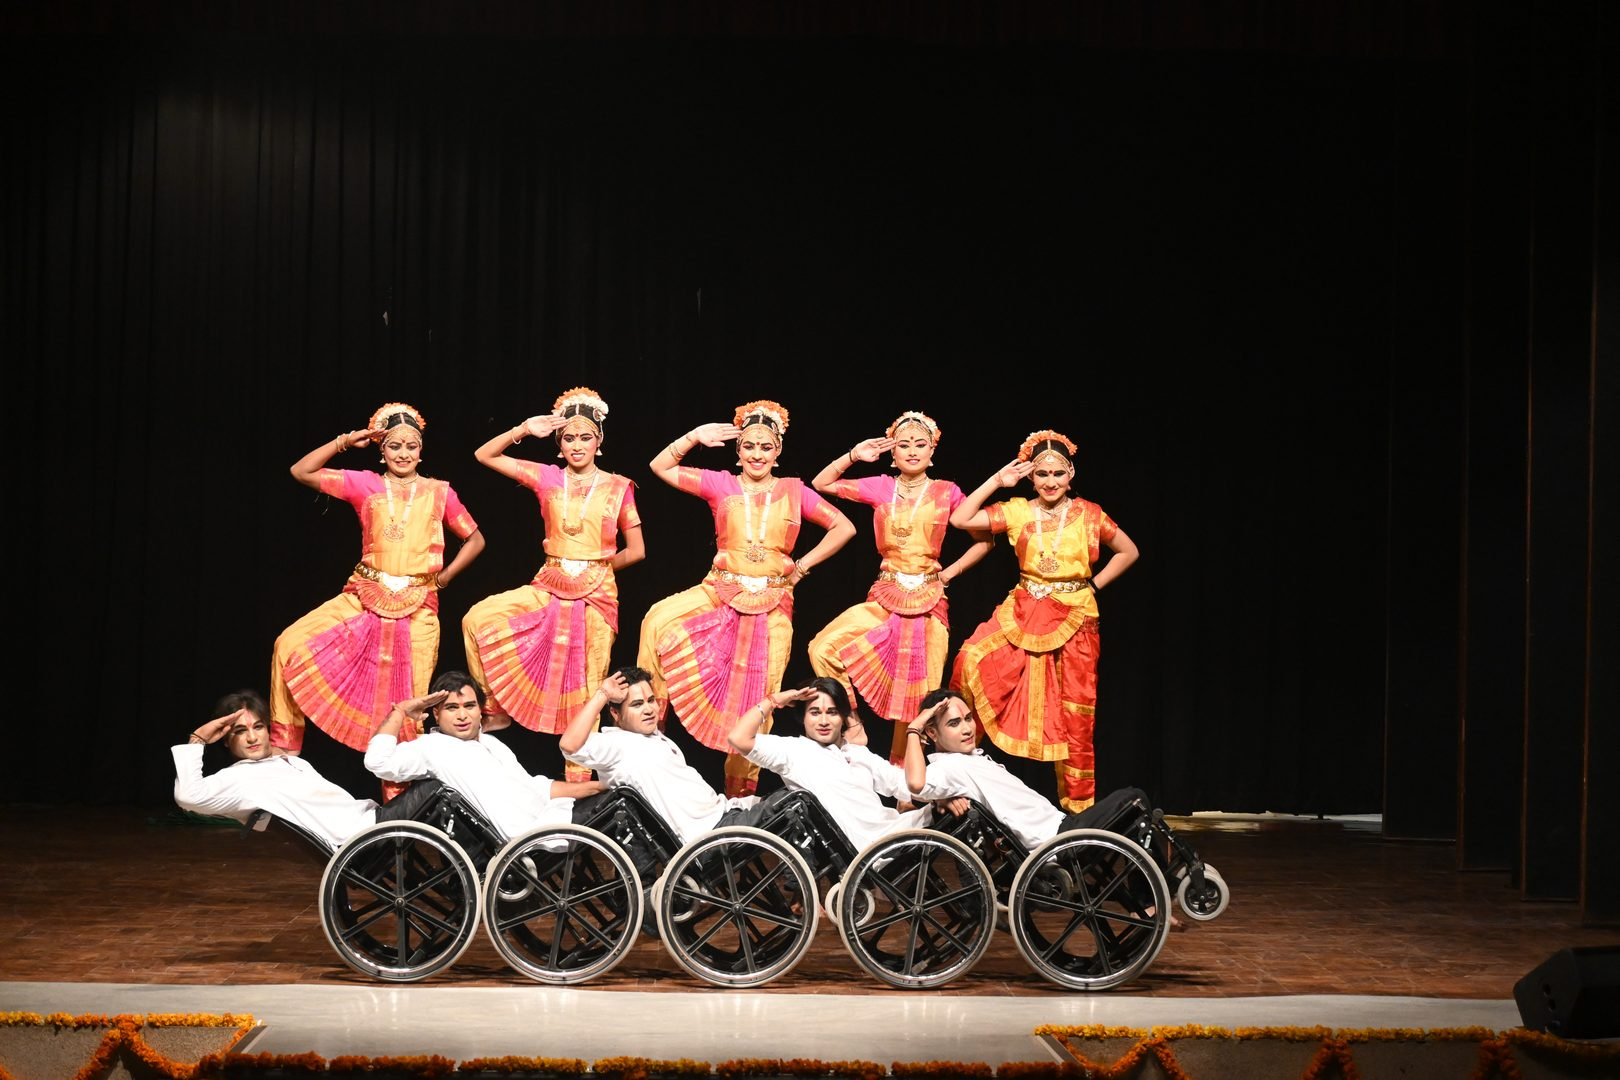
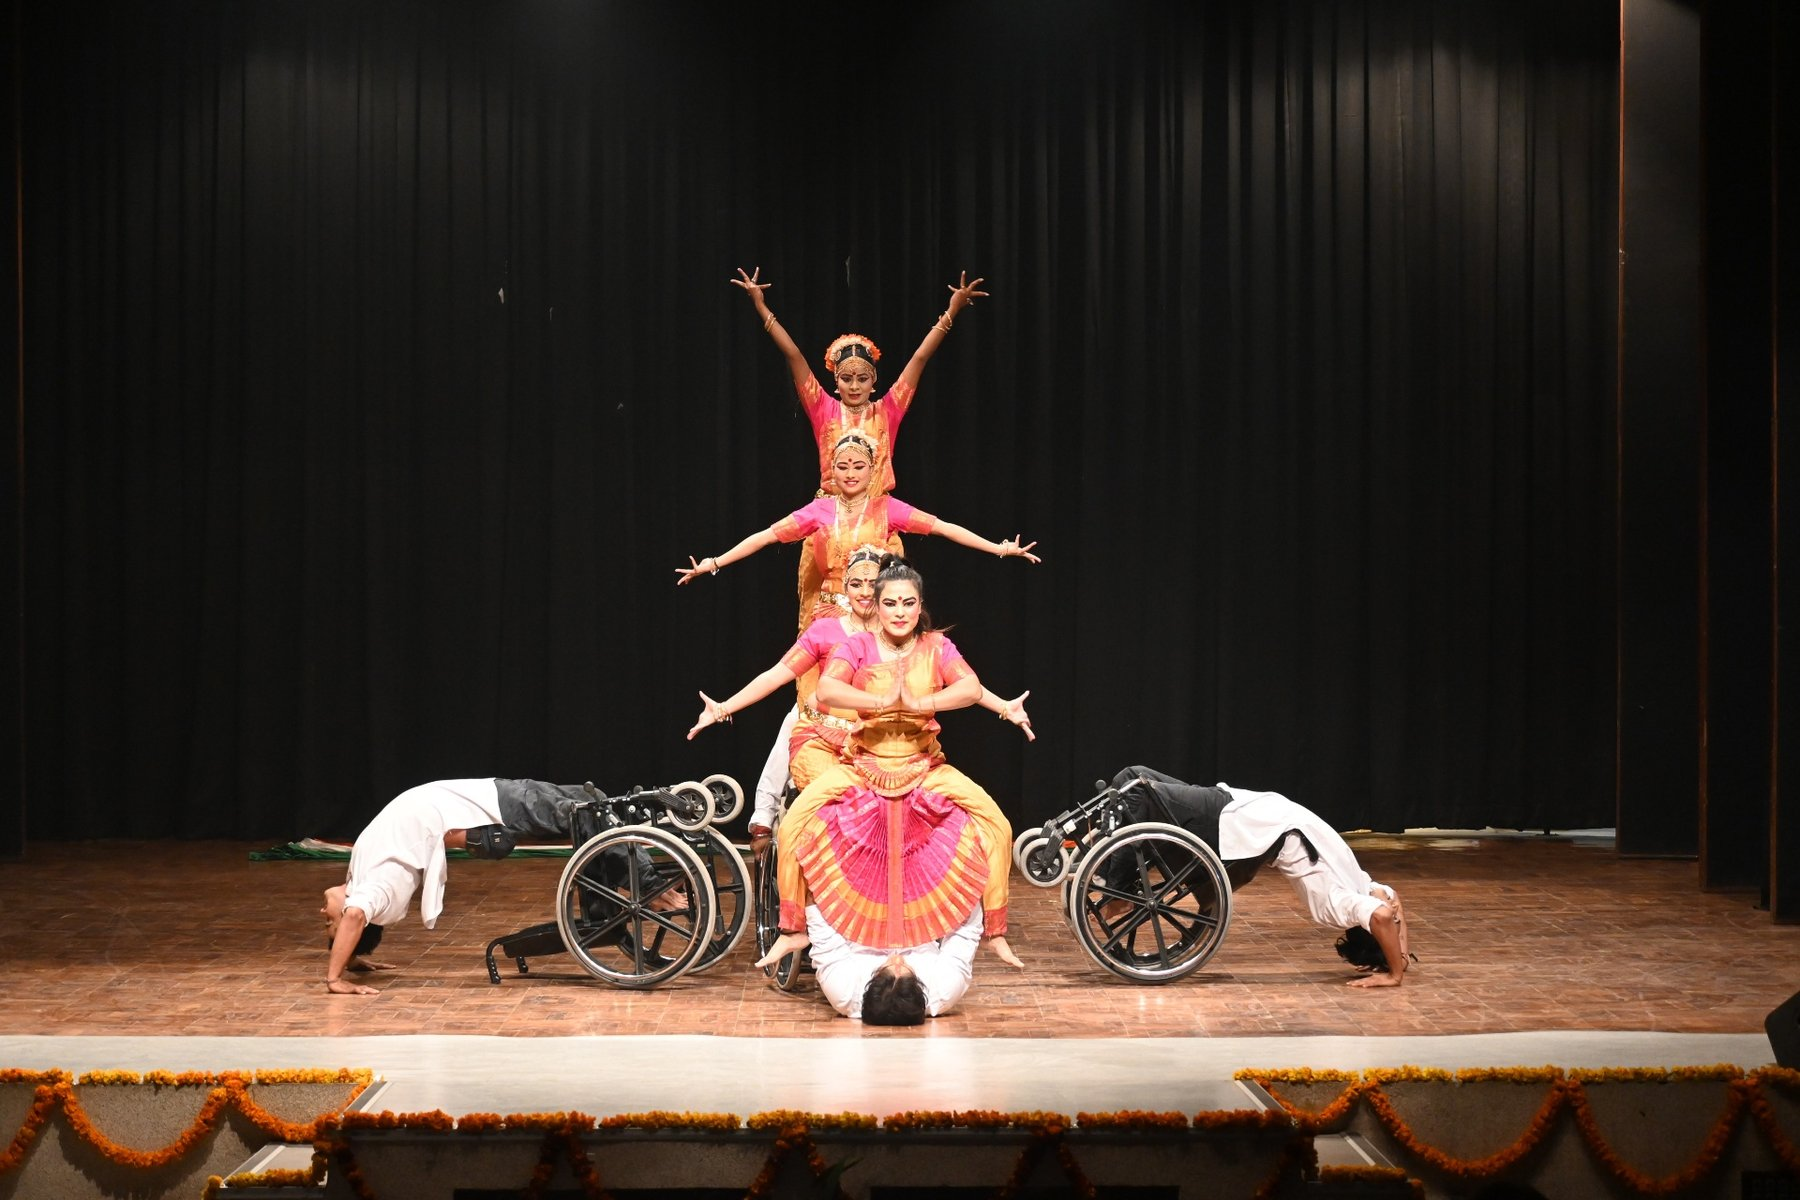
Add best NISHAAN 2024/2025 photos from OAE gallery.
Pull stage performances from oae.iitd.ac.in galleries — inclusive dance
(We Are One), music, recognition, and opening moments — into About the
Fest, hero, showcase, and past editions. Drop the tea-break image.

diff --git a/content/gallery.ts b/content/gallery.ts
@@ -1,38 +1,39 @@
-/** Past editions — NISHAAN was not held in 2023; first edition was 2024 */
+/** Past editions — NISHAAN was not held in 2023; first edition was 2024.
+ *  Photos sourced from OAE gallery (oae.iitd.ac.in NISHAAN 2024 / 2025). */
 export const pastGallery = [
   {
     id: "2025-1",
     year: 2025,
     src: "/media/past/2025-01.jpg",
-    alt: "Performers on stage during NISHAAN at IIT Delhi",
+    alt: "Inclusive stage dance at NISHAAN 2025 — performers together in salute",
     caption: "On Stage",
   },
   {
     id: "2025-2",
     year: 2025,
     src: "/media/past/2025-02.jpg",
-    alt: "Students celebrating during NISHAAN at IIT Delhi",
-    caption: "In the Hall",
+    alt: "Dance formation at NISHAAN 2025 with wheelchair artists",
+    caption: "We Are One",
   },
   {
     id: "2024-1",
     year: 2024,
     src: "/media/past/2024-01.jpg",
-    alt: "Cultural performance at NISHAAN 2024",
-    caption: "Cultural Showcase",
+    alt: "Student speaking at NISHAAN 2024 with OAE poster behind",
+    caption: "Opening Words",
   },
   {
     id: "2024-2",
     year: 2024,
     src: "/media/past/2024-02.jpg",
-    alt: "Participants gathered at NISHAAN 2024",
-    caption: "Participants",
+    alt: "Certificate moment at NISHAAN 2024",
+    caption: "Recognition",
   },
   {
     id: "2024-3",
     year: 2024,
     src: "/media/past/2024-03.jpg",
-    alt: "Welcome session at the first NISHAAN edition in 2024",
+    alt: "Host with microphone at the first NISHAAN edition in 2024",
     caption: "Welcome",
   },
 ] as const;
@@ -42,60 +43,67 @@ export const showcaseGallery = [
   {
     id: "show-01",
     src: "/media/showcase/show-01.jpg",
-    alt: "Inclusive performance moment at NISHAAN",
+    alt: "Inclusive dance ensemble at NISHAAN 2025",
     caption: "Shared Stage",
     span: "wide" as const,
   },
   {
     id: "show-02",
     src: "/media/showcase/show-02.jpg",
-    alt: "Audience and performers at NISHAAN",
-    caption: "In the Room",
+    alt: "Classical dance formation with wheelchair performers at NISHAAN",
+    caption: "We Are One",
     span: "normal" as const,
   },
   {
     id: "show-03",
     src: "/media/showcase/show-03.jpg",
-    alt: "Cultural dance presentation at NISHAAN",
-    caption: "Dance",
+    alt: "Music performance with harmonium at NISHAAN",
+    caption: "Music",
     span: "normal" as const,
   },
   {
     id: "show-04",
     src: "/media/showcase/show-04.jpg",
-    alt: "Celebration and recognition at NISHAAN",
-    caption: "Recognition",
+    alt: "Solo dance performance at NISHAAN",
+    caption: "Dance",
     span: "normal" as const,
   },
   {
     id: "show-05",
     src: "/media/showcase/show-05.jpg",
-    alt: "Stage ensemble at NISHAAN",
-    caption: "Ensemble",
+    alt: "Stage moment with sign language interpretation at NISHAAN",
+    caption: "Access on Stage",
     span: "wide" as const,
   },
   {
     id: "show-06",
     src: "/media/showcase/show-06.jpg",
-    alt: "Participants gathering before performances",
-    caption: "Gathering",
+    alt: "Guitar performance at NISHAAN",
+    caption: "In the Spotlight",
     span: "normal" as const,
   },
   {
     id: "show-07",
     src: "/media/showcase/show-07.jpg",
-    alt: "Performance energy at NISHAAN",
-    caption: "Energy",
+    alt: "Certificate presentation at NISHAAN",
+    caption: "Recognition",
+    span: "normal" as const,
+  },
+  {
+    id: "show-08",
+    src: "/media/showcase/show-08.jpg",
+    alt: "Student addressing the room at NISHAAN 2024",
+    caption: "Voice",
     span: "normal" as const,
   },
 ] as const;
 
 /** Event category cover images for richer cards */
 export const eventCovers: Record<string, string> = {
-  music: "/media/showcase/show-07.jpg",
-  dance: "/media/hero/stage.jpg",
-  drama: "/media/showcase/show-01.jpg",
-  painting: "/media/showcase/show-04.jpg",
-  photography: "/media/showcase/show-02.jpg",
+  music: "/media/showcase/show-03.jpg",
+  dance: "/media/showcase/show-04.jpg",
+  drama: "/media/showcase/show-05.jpg",
+  painting: "/media/showcase/show-07.jpg",
+  photography: "/media/showcase/show-08.jpg",
   wordsmith: "/media/showcase/show-06.jpg",
 };

diff --git a/components/home/HomeSections.tsx b/components/home/HomeSections.tsx
@@ -51,14 +51,25 @@ export function HomeSections() {
             </div>
           </div>
           <div className="lg:col-span-5">
-            <div className="imprint-tile flex h-full min-h-[12rem] flex-col justify-end px-6 py-7 sm:px-8 sm:py-8">
-              <p className="font-display text-3xl font-semibold tracking-tight text-fest-ink sm:text-4xl">
-                {site.name}{" "}
-                <span lang="hi" className="text-fest-warm">
-                  {site.nameHi}
-                </span>
-              </p>
-              <p className="mt-2 text-sm text-fest-muted">{site.editionLabel}</p>
+            <div className="imprint-tile overflow-hidden">
+              <div className="relative aspect-[16/11] bg-fest-field">
+                <Image
+                  src="/media/showcase/about-fest.jpg"
+                  alt="Inclusive dance performance at NISHAAN — artists on stage together"
+                  fill
+                  className="object-cover object-center"
+                  sizes="(max-width: 1024px) 100vw, 40vw"
+                />
+              </div>
+              <div className="border-t border-fest-rule px-5 py-4">
+                <p className="font-display text-xl font-semibold text-fest-ink">
+                  {site.name}{" "}
+                  <span lang="hi" className="text-fest-warm">
+                    {site.nameHi}
+                  </span>
+                </p>
+                <p className="mt-1 text-sm text-fest-muted">{site.editionLabel}</p>
+              </div>
             </div>
           </div>
         </div>

diff --git a/content/site.ts b/content/site.ts
@@ -128,28 +128,28 @@ export const history = [
 export const media = {
   hero: {
     src: "/media/hero/stage.jpg",
-    alt: "Inclusive stage performance at NISHAAN — dancers and performers together",
+    alt: "Inclusive dance performance at NISHAAN — artists on stage together",
   },
   past: [
     {
       src: "/media/past/2025-01.jpg",
-      alt: "Performers on stage during NISHAAN",
-      caption: "On stage",
+      alt: "Inclusive stage dance at NISHAAN 2025",
+      caption: "On Stage",
     },
     {
       src: "/media/past/2025-02.jpg",
-      alt: "Students celebrating during NISHAAN",
-      caption: "In the room",
+      alt: "Dance formation with wheelchair artists at NISHAAN",
+      caption: "We Are One",
     },
     {
       src: "/media/past/2024-01.jpg",
-      alt: "Cultural showcase at NISHAAN",
-      caption: "In the frame",
+      alt: "Student speaking at NISHAAN 2024",
+      caption: "Opening Words",
     },
   ],
   chapter: {
-    about: "/media/past/2025-01.jpg",
-    events: "/media/past/2024-01.jpg",
-    vision: "/media/past/2025-01.jpg",
+    about: "/media/showcase/about-fest.jpg",
+    events: "/media/showcase/show-02.jpg",
+    vision: "/media/showcase/show-01.jpg",
   },
 } as const;
